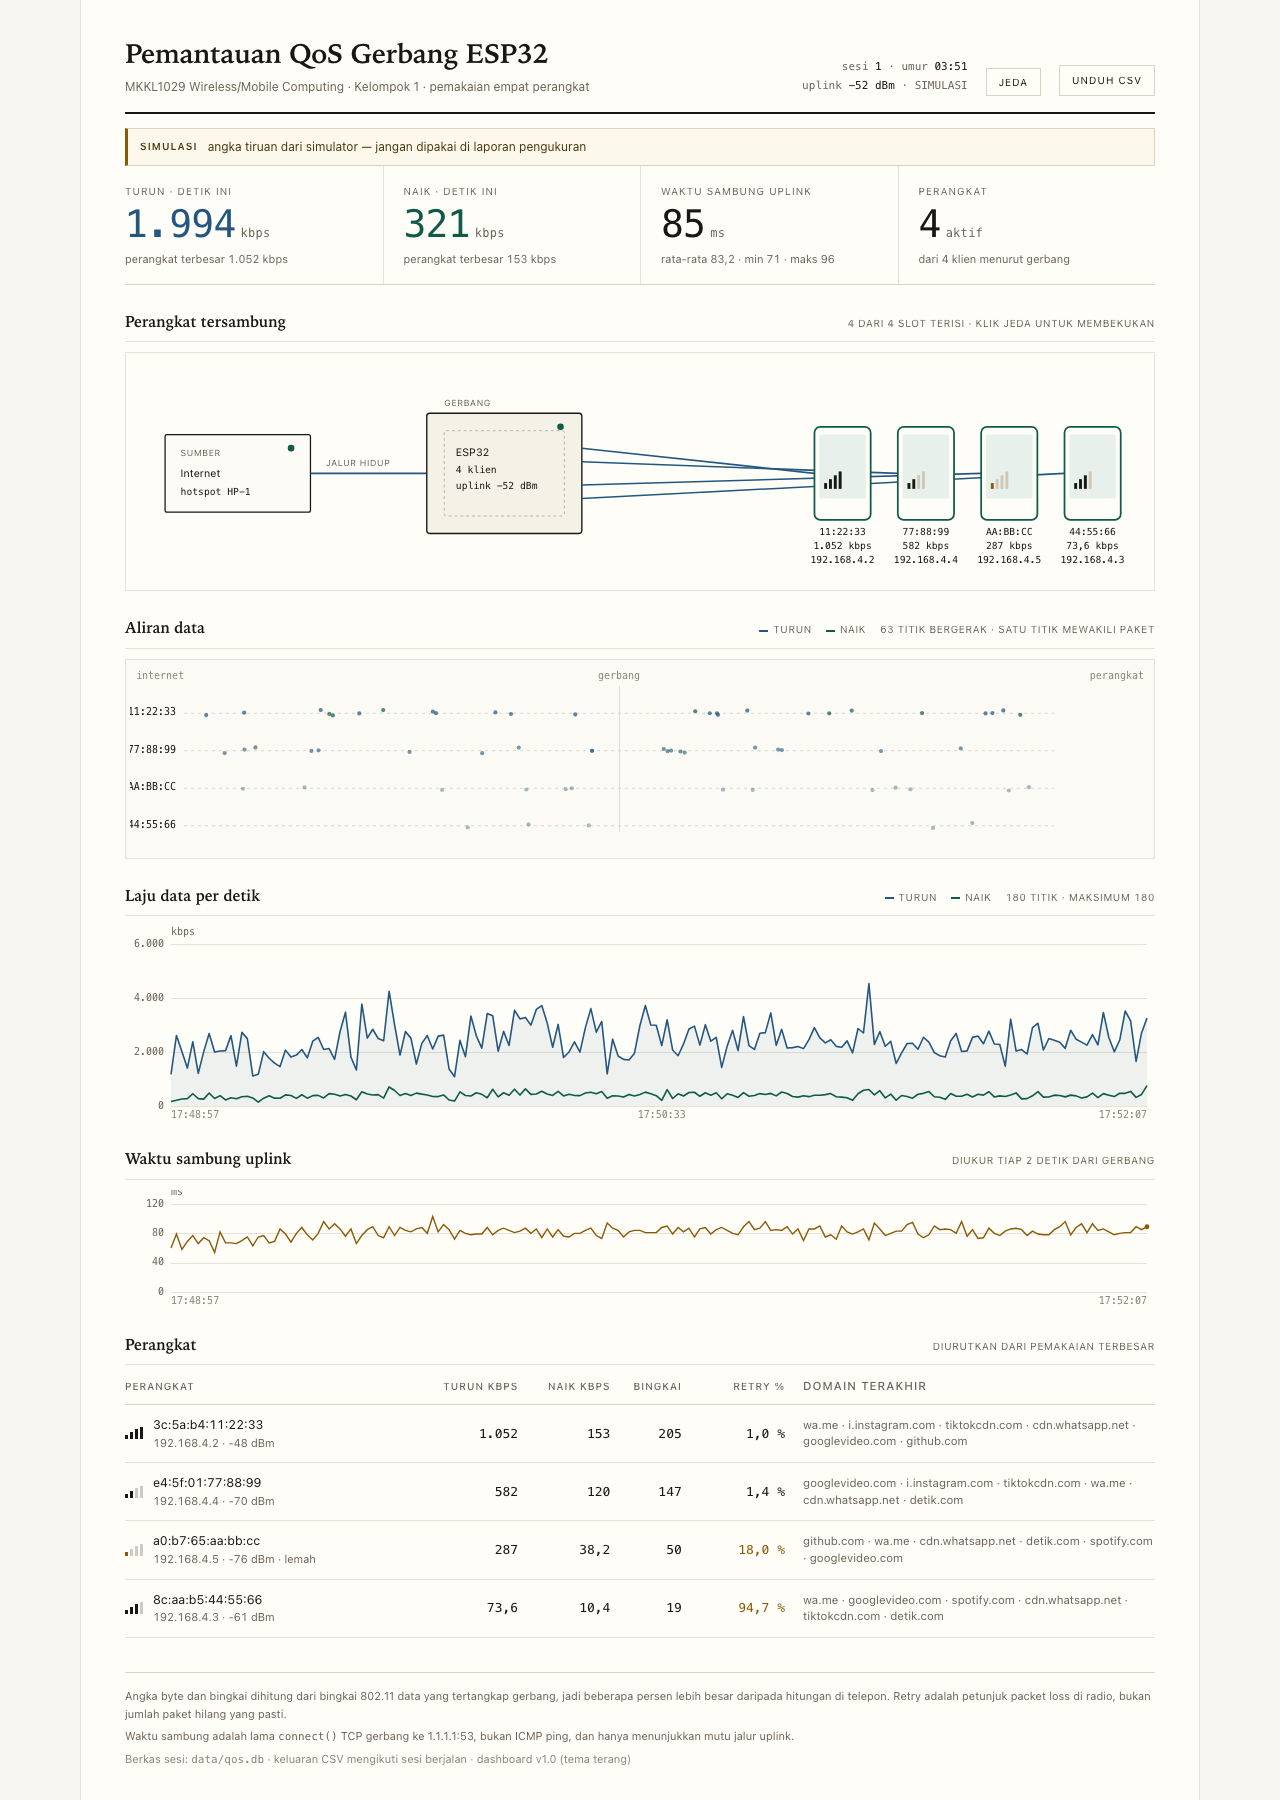
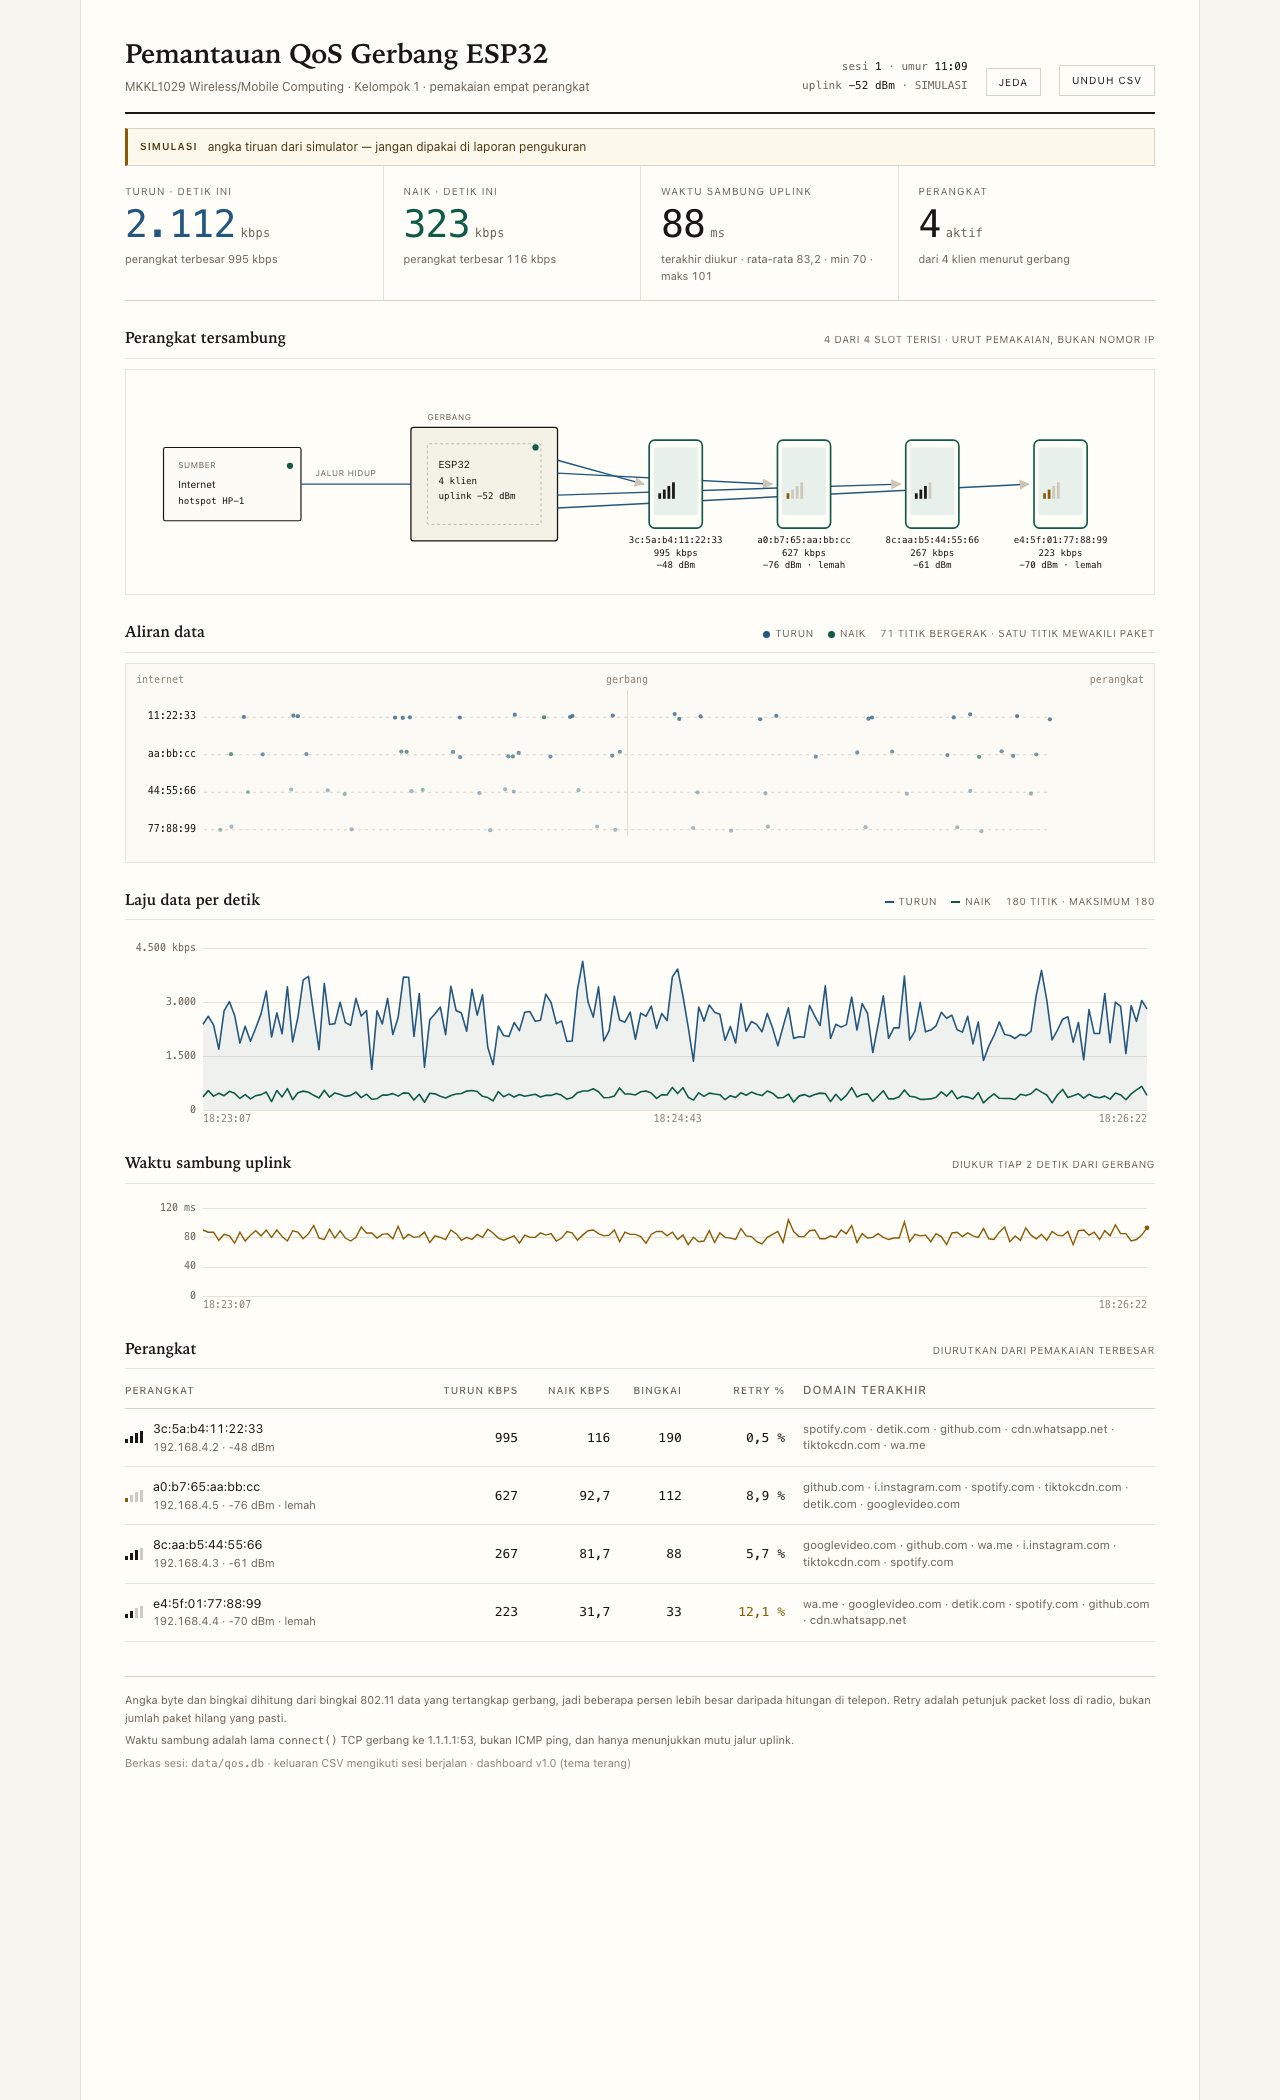
feat(dashboard): skema dua tata letak, satuan sumbu, dan label perangkat utuh

diff --git a/src/dashboard/index.html b/src/dashboard/index.html
@@ -171,12 +171,14 @@
     margin-top: 10px;
   }
   #skema { display: block; width: 100%; height: auto; }
+  #skema { width: 100%; height: auto; display: block; }
   #skema .kabel { stroke: #cdc6b6; stroke-width: 1.2; fill: none; }
   #skema .kabel.aktif { stroke: var(--turun); stroke-width: 1.6; }
   #skema .kotak { fill: #fdfbf5; stroke: var(--teks); stroke-width: 1.3; }
   #skema .papan-esp { fill: #f4f1e7; stroke: var(--teks); stroke-width: 1.4; }
   #skema .pin { stroke: var(--teks); stroke-width: 1; }
   #skema .t { font-family: var(--mono); font-size: 10px; fill: var(--teks); }
+  #skema .alas { paint-order: stroke; stroke: var(--kertas); stroke-width: 3px; }
   #skema .t-kecil { font-family: var(--sans); font-size: 9px; letter-spacing: 0.06em; fill: var(--teks-2); text-transform: uppercase; }
   #skema .t-nama { font-family: var(--sans); font-size: 11px; fill: var(--teks); }
   #skema .lampu { fill: #c9c2b2; }
@@ -197,6 +199,8 @@
   /* --------------------------------------------------------- grafik --- */
   .bagian { padding-top: 26px; }
   .kepala-bagian {
+    flex-wrap: wrap;
+    row-gap: 4px;
     display: flex;
     align-items: baseline;
     justify-content: space-between;
@@ -226,6 +230,7 @@
     color: var(--teks-2);
     align-items: center;
   }
+  .legenda i.titik { width: 7px; height: 7px; border-radius: 50%; }
   .legenda i {
     display: inline-block;
     width: 9px;
@@ -407,12 +412,12 @@
           <text class="t-kecil" x="46" y="100">sumber</text>
           <text class="t-nama" x="46" y="122">Internet</text>
           <text class="t" x="46" y="140">hotspot HP-1</text>
-          <circle class="lampu" id="lampuUplink" cx="160" cy="92" r="3.4"></circle>
+          <circle class="lampu" id="lampuUplink" cx="168" cy="98" r="3.4"></circle>
         </g>
 
         <!-- kabel sumber ke gerbang -->
         <path class="kabel" id="kabelUplink" d="M180 118 H300"></path>
-        <text class="t-kecil" x="196" y="110" id="tUplink">menunggu</text>
+        <text class="t-kecil alas" x="196" y="109" id="tUplink">menunggu</text>
 
         <!-- papan ESP32 -->
         <g>
@@ -423,16 +428,17 @@
           <text class="t-nama" x="330" y="100">ESP32</text>
           <text class="t" x="330" y="118" id="tKlien">0 klien</text>
           <text class="t" x="330" y="134" id="tUplinkDb">uplink — dBm</text>
-          <circle class="lampu" id="lampuPapan" cx="438" cy="70" r="3.4"></circle>
+          <circle class="lampu" id="lampuPapan" cx="436" cy="78" r="3.4"></circle>
         </g>
 
-        <!-- kabel gerbang ke perangkat -->
-        <path class="kabel" id="kabel0" d="M460 92 L700 118"></path>
-        <path class="kabel" id="kabel1" d="M460 106 L786 118"></path>
-        <path class="kabel" id="kabel2" d="M460 130 L872 118"></path>
-        <path class="kabel" id="kabel3" d="M460 144 L958 118"></path>
 
         <!-- perangkat, disusun skrip -->
+        <defs>
+          <marker id="ujung" viewBox="0 0 8 8" refX="7" refY="4"
+                  markerWidth="7" markerHeight="7" orient="auto-start-reverse">
+            <path d="M0 0 L8 4 L0 8 z" fill="#cdc6b6"></path>
+          </marker>
+        </defs>
         <g id="deretHp"></g>
       </svg>
     </div>
@@ -442,8 +448,8 @@
     <div class="kepala-bagian">
       <h2>Aliran data</h2>
       <div class="legenda">
-        <span><i style="background:var(--turun)"></i>turun</span>
-        <span><i style="background:var(--naik)"></i>naik</span>
+        <span><i class="titik" style="background:var(--turun)"></i>turun</span>
+        <span><i class="titik" style="background:var(--naik)"></i>naik</span>
         <span id="infoAnimasi">menunggu data</span>
       </div>
     </div>
@@ -588,18 +594,16 @@
       ctx.lineTo(w - pad.kanan, Math.round(y) + 0.5);
       ctx.stroke();
       const v = maks * (1 - i / 3);
-      const teks = angka(v, 0);
+      const teks = i === 0 ? `${angka(v, 0)} ${satuan}` : angka(v, 0);
       ctx.fillText(teks, pad.kiri - 7, y);
     }
-    ctx.textAlign = 'left';
-    ctx.fillText(satuan, pad.kiri, pad.atas - 12);
     return maks;
   }
 
   function gambarLaju() {
     const c = el('grafikLaju');
     const { ctx, w, h } = siapkan(c);
-    const pad = { kiri: 46, kanan: 8, atas: 18, bawah: 16 };
+    const pad = { kiri: 78, kanan: 8, atas: 18, bawah: 16 };
     const data = (jsonTerakhir && jsonTerakhir.histori) || [];
     const maksData = Math.max(1, ...data.map(d => Math.max(d.naik, d.turun)));
     const maks = Math.max(50, Math.ceil(maksData / 50) * 50);
@@ -653,7 +657,7 @@
   function gambarRtt() {
     const c = el('grafikRtt');
     const { ctx, w, h } = siapkan(c);
-    const pad = { kiri: 46, kanan: 8, atas: 14, bawah: 16 };
+    const pad = { kiri: 78, kanan: 8, atas: 14, bawah: 16 };
     const data = (jsonTerakhir && jsonTerakhir.histori) || [];
     const nilai = data.map(d => d.rtt).filter(v => v > 0);
     const maksData = Math.max(1, ...nilai);
@@ -699,47 +703,112 @@
 
   /* ------------------------------------------------- skema perangkat --- */
   const NS = 'http://www.w3.org/2000/svg';
-  const HP_X = [700, 786, 872, 958];
+  // tata letak lebar: empat HP berjajar, label di bawah ikon
+  // tata letak sempit: empat HP bertumpuk, label di samping ikon
+  function tata(lebar) {
+    if (lebar >= 1000) {
+      const xs = [560, 700, 840, 980];
+      return {
+        vb: '0 0 1100 236', xs, ys: [70, 70, 70, 70], w: 58, h: 96,
+        labelSamping: false, busX: null,
+        port: [92, 106, 130, 144],
+      };
+    }
+    const ys = [24, 136, 248, 360];
+    return {
+      vb: '0 0 1040 460', xs: [700, 700, 700, 700], ys, w: 58, h: 76,
+      labelSamping: true, busX: 520,
+      port: [ys[0] + 38, ys[1] + 38, ys[2] + 38, ys[3] + 38],
+    };
+  }
 
-  function buatDeret() {
+  let tataKini = null;
+
+  function buatDeret(Y) {
     const deret = el('deretHp');
-    HP_X.forEach((x, i) => {
+    deret.replaceChildren();
+    const sebelum = el('skema');
+    const hpGrup = [];
+    const kabelGrup = [];
+    HP_X_FOR(Y).forEach((x, i) => {
+      const y = Y.ys[i];
       const g = document.createElementNS(NS, 'g');
       g.setAttribute('id', 'hp' + i);
+
+      const kabel = document.createElementNS(NS, 'path');
+      kabel.setAttribute('class', 'kabel');
+      kabel.setAttribute('id', 'kabel' + i);
+      kabel.setAttribute('marker-end', 'url(#ujung)');
+      kabel.setAttribute('d', Y.busX
+        ? `M460 118 H${Y.busX} V${Y.ys[i] + 38} H${x - 6}`
+        : `M460 ${Y.port[i]} L${x - 6} ${y + Y.h / 2}`);
+      kabelGrup.push(kabel);
+
       const badan = document.createElementNS(NS, 'rect');
       badan.setAttribute('class', 'hp');
-      badan.setAttribute('x', x); badan.setAttribute('y', 70);
-      badan.setAttribute('width', 58); badan.setAttribute('height', 96);
+      badan.setAttribute('x', x); badan.setAttribute('y', y);
+      badan.setAttribute('width', Y.w); badan.setAttribute('height', Y.h);
       badan.setAttribute('rx', 6);
+
       const layar = document.createElementNS(NS, 'rect');
       layar.setAttribute('class', 'layar');
-      layar.setAttribute('x', x + 5); layar.setAttribute('y', 78);
-      layar.setAttribute('width', 48); layar.setAttribute('height', 66);
+      layar.setAttribute('x', x + 5); layar.setAttribute('y', y + 8);
+      layar.setAttribute('width', Y.w - 10); layar.setAttribute('height', Y.h - 22);
       layar.setAttribute('rx', 2);
+
       const batang = document.createElementNS(NS, 'g');
       [0, 1, 2, 3].forEach(b => {
         const r = document.createElementNS(NS, 'rect');
-        r.setAttribute('x', x + 10 + b * 5); r.setAttribute('y', 128 - b * 4);
+        r.setAttribute('x', x + 10 + b * 5);
+        r.setAttribute('y', y + 58 - b * 4);
         r.setAttribute('width', 3); r.setAttribute('height', 6 + b * 4);
         r.setAttribute('fill', '#b9b2a2'); r.setAttribute('class', 'bar');
         batang.appendChild(r);
       });
+
+      const tx = Y.labelSamping ? x + Y.w + 12 : x + Y.w / 2;
+      const anchor = Y.labelSamping ? 'start' : 'middle';
+      const ty = Y.labelSamping ? [y + 26, y + 44, y + 60] : [y + 112, y + 126, y + 140];
+
       const nama = document.createElementNS(NS, 'text');
-      nama.setAttribute('class', 't'); nama.setAttribute('x', x + 29);
-      nama.setAttribute('y', 182); nama.setAttribute('text-anchor', 'middle');
+      nama.setAttribute('class', 't'); nama.setAttribute('x', tx);
+      nama.setAttribute('y', ty[0]); nama.setAttribute('text-anchor', anchor);
       nama.textContent = '—';
+
       const laju = document.createElementNS(NS, 'text');
-      laju.setAttribute('class', 't'); laju.setAttribute('x', x + 29);
-      laju.setAttribute('y', 196); laju.setAttribute('text-anchor', 'middle');
+      laju.setAttribute('class', 't'); laju.setAttribute('x', tx);
+      laju.setAttribute('y', ty[1]); laju.setAttribute('text-anchor', anchor);
       laju.setAttribute('fill', '#6b6459'); laju.textContent = 'kosong';
+
       const namaKecil = document.createElementNS(NS, 'text');
-      namaKecil.setAttribute('class', 't'); namaKecil.setAttribute('x', x + 29);
-      namaKecil.setAttribute('y', 210); namaKecil.setAttribute('text-anchor', 'middle');
+      namaKecil.setAttribute('class', 't'); namaKecil.setAttribute('x', tx);
+      namaKecil.setAttribute('y', ty[2]); namaKecil.setAttribute('text-anchor', anchor);
       namaKecil.setAttribute('fill', '#8b8478'); namaKecil.textContent = '';
+
       g.append(badan, layar, batang, nama, laju, namaKecil);
-      deret.appendChild(g);
+      hpGrup.push(g);
     });
+    kabelGrup.forEach(k => deret.appendChild(k));
+    hpGrup.forEach(g => deret.appendChild(g));
+    sebelum.setAttribute('viewBox', Y.vb);
   }
+
+  function HP_X_FOR(Y) { return Y.xs; }
+
+  function pasangSkema() {
+    const lebar = Math.round(el('skema').getBoundingClientRect().width);
+    const kunci = lebar >= 1000 ? 'lebar' : 'sempit';
+    if (kunci === tataKini) return;
+    tataKini = kunci;
+    buatDeret(tata(lebar));
+    if (jsonTerakhir) gambarSkema(jsonTerakhir.perangkat || [], jsonTerakhir);
+  }
+
+  let jedaUkur = 0;
+  addEventListener('resize', () => {
+    clearTimeout(jedaUkur);
+    jedaUkur = setTimeout(pasangSkema, 150);
+  });
 
   function gambarSkema(perangkat, d) {
     const urut = perangkat.slice(0, 4);
@@ -751,9 +820,9 @@
     el('kabelUplink').classList.toggle('aktif', !!d.rssi_uplink);
     el('lampuUplink').classList.toggle('hidup', !!d.rssi_uplink);
     el('lampuPapan').classList.toggle('hidup', aktif > 0);
-    el('infoDiagram').textContent = `${aktif} dari 4 slot terisi · klik Jeda untuk membekukan`;
+    el('infoDiagram').textContent = `${aktif} dari 4 slot terisi · urut pemakaian, bukan nomor IP`;
 
-    HP_X.forEach((x, i) => {
+    [0, 1, 2, 3].forEach(i => {
       const g = el('hp' + i);
       const p = urut[i];
       const kabel = el('kabel' + i);
@@ -763,16 +832,16 @@
       g.querySelector('.layar').classList.toggle('aktif', !!hidup);
 
       const bar = g.querySelectorAll('.bar');
-      const tingkat = p ? (p.rssi >= -55 ? 4 : p.rssi >= -65 ? 3 : p.rssi >= -75 ? 2 : 1) : 0;
+      const tingkat = p ? (p.rssi >= -55 ? 4 : p.rssi >= -65 ? 3 : p.rssi >= -70 ? 2 : 1) : 0;
       bar.forEach((r, b) => {
-        r.setAttribute('fill', b < tingkat ? (p && p.rssi <= -75 ? '#8a5a06' : '#191713') : '#cfc8b8');
+        r.setAttribute('fill', b < tingkat ? (p && p.rssi <= -70 ? '#8a5a06' : '#191713') : '#cfc8b8');
       });
 
       const teks = g.querySelectorAll('text');
       if (p) {
-        teks[0].textContent = p.mac.slice(-8).toUpperCase();
+        teks[0].textContent = p.mac;
         teks[1].textContent = `${rupiah(p.turun_kbps)} kbps`;
-        teks[2].textContent = p.ip;
+        teks[2].textContent = `${p.rssi} dBm${p.rssi <= -70 ? ' · lemah' : ''}`;
       } else {
         teks[0].textContent = '—';
         teks[1].textContent = 'kosong';
@@ -809,7 +878,7 @@
     ctx.clearRect(0, 0, w, h);
     const data = (jsonTerakhir && jsonTerakhir.perangkat) || [];
     const urut = data.slice(0, 4);
-    const kiri = 54, kanan = w - 96;
+    const kiri = 74, kanan = w - 100;
     const tengah = (kiri + kanan) / 2;
 
     ctx.font = '10px "SF Mono", ui-monospace, Menlo, monospace';
@@ -852,7 +921,7 @@
 
       ctx.textAlign = 'right';
       ctx.fillStyle = p ? '#191713' : '#b3ab9b';
-      ctx.fillText(p ? p.mac.slice(-8).toUpperCase() : '—', kiri - 8, y);
+      ctx.fillText(p ? p.mac.split(':').slice(-3).join(':') : '—', kiri - 8, y);
 
       if (p && adaData) {
         bergerak = true;
@@ -926,7 +995,7 @@
             ${sinyal(d.rssi)}
             <div>
               <div class="mac">${d.mac}</div>
-              <div class="ip">${d.ip} · ${d.rssi} dBm${d.rssi <= -75 ? ' · lemah' : ''}</div>
+              <div class="ip">${d.ip} · ${d.rssi} dBm${d.rssi <= -70 ? ' · lemah' : ''}</div>
             </div>
           </div>
         </td>
@@ -960,8 +1029,8 @@
     el('pitaSim').classList.toggle('tampil', d.mode === 'sim');
     el('pitaMati').classList.remove('tampil');
 
-    const turun = perangkat.reduce((a, p) => a + p.turun_kbps, 0);
-    const naik = perangkat.reduce((a, p) => a + p.naik_kbps, 0);
+    const turun = perangkat.reduce((a, p) => a + Math.round(p.turun_kbps), 0);
+    const naik = perangkat.reduce((a, p) => a + Math.round(p.naik_kbps), 0);
     const maksTurun = Math.max(0, ...perangkat.map(p => p.turun_kbps));
     const maksNaik = Math.max(0, ...perangkat.map(p => p.naik_kbps));
 
@@ -974,7 +1043,7 @@
     el('kRtt').textContent = r.sekarang ? Math.round(r.sekarang) : '—';
     const gagal = r.gagal || 0;
     el('sRtt').innerHTML = r.sekarang
-      ? `rata-rata ${angka(r.rata2, 1)} · min ${Math.round(r.min)} · maks ${Math.round(r.maks)}`
+      ? `terakhir diukur · rata-rata ${angka(r.rata2, 1)} · min ${Math.round(r.min)} · maks ${Math.round(r.maks)}`
         + (gagal ? ` · <span class="bahaya-teks">gagal ${gagal}</span>` : '')
       : (gagal ? '<span class="bahaya-teks">gerbang belum dapat uplink</span>' : 'belum ada sambungan uplink');
 
@@ -1025,12 +1094,13 @@
     if (jsonTerakhir) { gambarLaju(); gambarRtt(); }
   });
 
-  buatDeret();
+  pasangSkema();
   putar();
   setInterval(putar, 1000);
 
   const kurangiGerak = window.matchMedia('(prefers-reduced-motion: reduce)').matches;
   setInterval(() => gambarAnimasi(performance.now()), kurangiGerak ? 500 : 60);
+  pasangSkema();
 })();
 </script>
 </body>

diff --git a/docs/FRD-dashboard.md b/docs/FRD-dashboard.md
@@ -4,9 +4,9 @@
 |---|---|
 | Proyek | MKKL1029 Wireless/Mobile Computing — Kelompok 1 |
 | Dokumen | Functional Requirements Document (FRD) untuk antarmuka dashboard |
-| Versi | 1.1 — 28 Oktober 2026 |
+| Versi | 1.2 — 28 Oktober 2026 |
 | Berkait | `docs/arsitektur.md`, `docs/pengujian.md`, `src/penerima/penerima.py` |
-| Status | Diterapkan pada `src/dashboard/index.html` v1.1 (tema terang, 28 Oktober 2026) |
+| Status | Diterapkan pada `src/dashboard/index.html` v1.2 (tema terang, 28 Oktober 2026) |
 
 ## 1. Tujuan
 
@@ -117,7 +117,8 @@ Prioritas: **W** = wajib, **S** = sebaiknya.
 | NFR-08 | Tidak menampilkan isi trafik, hanya volume dan domain | Tidak ada kolom URL penuh atau data pribadi |
 | NFR-09 | Tetap terbaca pada 1280×720 (proyektor) dan 1512×982 | Tidak ada gulir mendatar; tabel tetap utuh |
 | NFR-10 | Pembaruan tidak mengubah tata letak | Tidak ada lompatan posisi saat angka berubah |
-| NFR-11 | Animasi hemat dan sopan | Maksimum 220 titik di kanvas; bila sistem meminta kurangi gerak (`prefers-reduced-motion`), animasi melambat ke 2 bingkai/detik dan tetap terbaca |
+| NFR-11 | Skema menyesuaikan lebar jendela | Lebar ≥ 1000 px: empat perangkat berjajar, label tiga baris di bawah ikon. Lebih sempit: perangkat bertumpuk, label di samping ikon. Isi label tidak dipotong di kedua tata letak |
+| NFR-12 | Animasi hemat dan sopan | Maksimum 220 titik di kanvas; bila sistem meminta kurangi gerak (`prefers-reduced-motion`), animasi melambat ke 2 bingkai/detik dan tetap terbaca |
 
 ## 8. Rancangan Tampilan
 
@@ -202,4 +203,5 @@ rambut, huruf judul berkelas serif, angka monospace, satu warna aksen.
 | Versi | Tanggal | Perubahan |
 |---|---|---|
 | 1.0 | 2026-10-28 | Versi pertama; tema terang menggantikan dashboard gelap awal |
-| 1.1 | 2026-10-28 | Tambah skema perangkat dan kotak animasi aliran data (FR-21…FR-24, NFR-11) |
+| 1.1 | 2026-10-28 | Tambah skema perangkat dan kotak animasi aliran data (FR-21…FR-24) |
+| 1.2 | 2026-10-28 | Dua tata letak skema (lebar/sempit), satuan sumbu menyatu dengan tick teratas, label MAC utuh, angka total = jumlah angka per perangkat |
